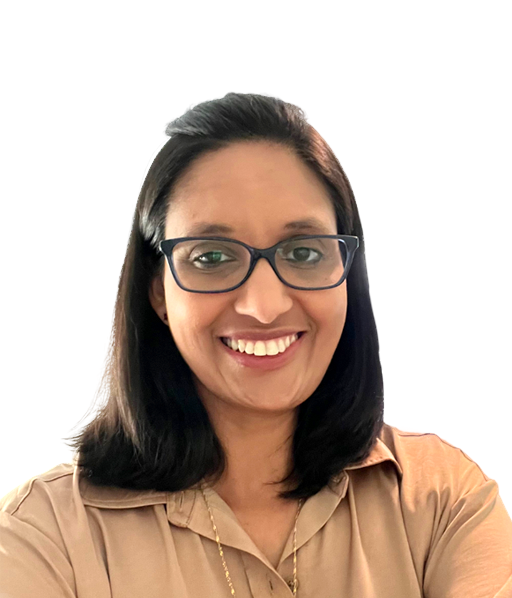
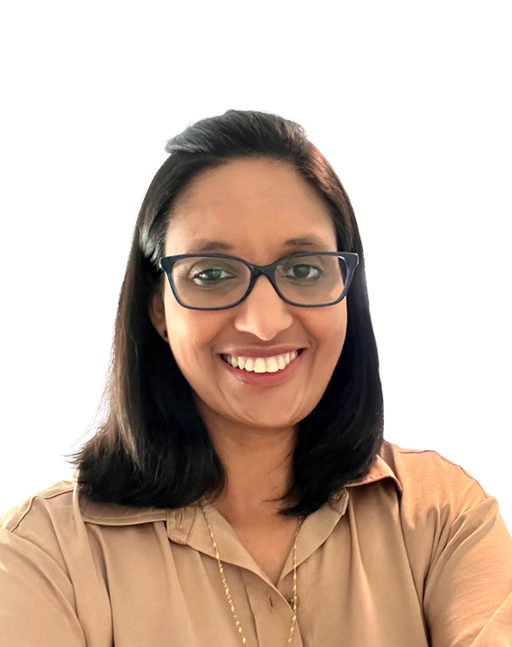
Update team style

Changed region(s): [[0.0, 0.3612, 1.0, 1.0], [0.2812, 0.1505, 0.6875, 0.3311], [0.7188, 0.4816, 0.75, 0.6321]]

diff --git a/src/css/style.page.css b/src/css/style.page.css
@@ -452,8 +452,8 @@
 /* MEET THE TEAM */
 
 .team-headshot {
-    --border-width: 8px;
-    --border-radius: 16px;
+    --border-width: 3px;
+    --border-radius: 8px;
     height: 100%;
     position: relative;
     overflow: hidden;
@@ -463,24 +463,14 @@
     border-top-left-radius: var(--border-radius);
     border-top-right-radius: var(--border-radius);
     border-width: var(--border-width);
-    border-color: black;
+    border-color: theme(colors.indigo.200);
 }
 
-.team-headshot:nth-child(3n-2) img {
-    background: url("/images/team/backing-cloud-1.png"), theme(colors.gray.700);
+.team-headshot img {
+    background: linear-gradient(to bottom, theme(colors.indigo.50), theme(colors.indigo.200));
+    border-bottom: 0;
     background-size: cover;
 }
-
-.team-headshot:nth-child(3n-1) img {
-    background: url("/images/team/backing-cloud-2.png"), theme(colors.teal.700);
-    background-size: cover;
-}
-
-.team-headshot:nth-child(3n) img {
-    background: url("/images/team/backing-cloud-3.png"), theme(colors.indigo.500);
-    background-size: cover;
-}
-
 
 .member-facts {
     position: absolute;
@@ -488,8 +478,11 @@
     width: 100%;
     height: 0;
     opacity: 0;
-    background-color: #000000f0;
-    color: theme(colors.gray.300);
+    background-color: white;
+    color: theme(colors.gray.800);
+    border-width: var(--border-width);
+    border-bottom: 0;
+    border-color: theme(colors.indigo.200);
     font-weight: 500;
     padding: 24px;
     list-style: circle;
@@ -512,8 +505,9 @@
 
 .member-info {
     position: relative;
-    border-color: black;
-    background-color: theme(colors.gray.800);
+    height: %;
+    border-color: theme(colors.indigo.200);
+    background-color: white;
     text-align: center;
     padding: 12px 24px;
     border-width: var(--border-width);
@@ -523,28 +517,28 @@
 }
 
 .member-info h5 {
-    color: white;
+    /* color: white; */
 }
 
 .team .title {
-    color: white;
+    /* color: white; */
     display: flex;
     flex-direction: column;
     align-items: center;
 }
 
 .member-info .title .name {
-    color: white;
+    color: theme(colors.gray.600);
     font-size: 1.5rem;
     line-height: 2rem;
-    font-weight: 600;
+    font-weight: 400;
     display: flex;
     flex-direction: column;
     align-items: center;
 }
 
 .member-info .title .role {
-    color: theme(colors.gray.400);
+    color: theme(colors.indigo.400);
     font-weight: 300;
     font-size: 1rem;
     margin-top: 8px;
@@ -552,7 +546,7 @@
 
 .team .socials {
     display: flex;
-    border-top: 2px solid theme(colors.gray.700);
+    border-top: 1px solid theme(colors.gray.100);
     margin-top: 1rem;
     padding-top: 1rem;
     justify-content: center;
@@ -564,7 +558,11 @@
 }
 
 .team .socials span a {
-    color: theme(colors.teal.200);
+    color: theme(colors.indigo.400);
+}
+
+.team .socials span a:hover {
+    color: theme(colors.indigo.600);
 }
 
 /*
